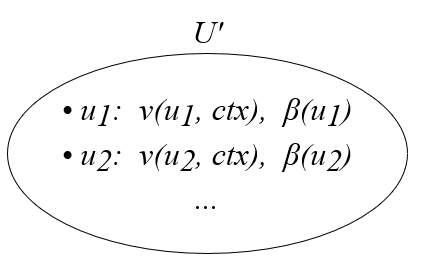
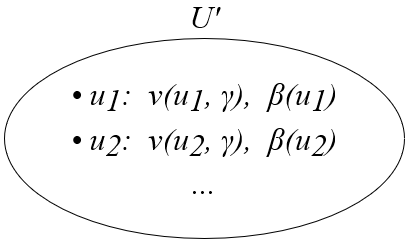
WIP Payment Execution Environment Models

diff --git a/packages/spec-haskell/yellowpaper/Paper.tex b/packages/spec-haskell/yellowpaper/Paper.tex
@@ -174,30 +174,34 @@ This discrete nature of this money distribution model is schematically depicted 
     \label{fig:discrete-md}
 \end{figure}
 
-\subsubsection{Using Shared Context}
+\subsubsection{Using Context}
 
 But the discrete nature of the model does not provide the necessary element for us to add the desired properties to the
-payment system. Here we propose a modification that involves the usage of \textit{shared context (ctx for short)}:
+payment system. Here we propose a modification that involves the usage of \textit{context ($\gamma$)}:
 
 \begin{figure}[h]
     \centering
     \includegraphics[width=0.5\textwidth]{../assets/money-distribution-with-ctx.png}
-    \caption{Schematic representation of money distribution with shared context}
+    \caption{Schematic representation of money distribution with context}
     \label{fig:md-with-ctx}
 \end{figure}
 
-Note that in this model, shared context can be updated independently while value functions of the same money
-distribution can produce different monetary values.
+Note that in this model, context can be updated independently while value functions of the same money distribution can
+produce different monetary values.
 
 \paragraph{}
 
 Here are some examples how that could work:
 
 \begin{itemize}
-\item If time is included the shared context, then monetary value of each monetary unit can be continuous over time.
-\item A subset of monetary units can also have their value functions depending on the same information in shared
-    context. This could enable payment primitives that involve many parties.
+\item If time (t) is included the context, then monetary value of each monetary unit can be continuous over time. Time
+    is part of the physical reality, hence not changeable by the actors in the payment system.
+\item Any subset of monetary units can also have their value functions depending on the same information in
+    context. This could enable payment primitives that involve many parties. This set of information in context is
+    referred to as \textit{ctx :: SharedContext}, they can be changed over time by the actors in the payment system.
 \end{itemize}
+
+For the purpose of this paper, the model of context is: $\gamma = (t :: Timestamp) \oplus (ctx :: SharedContext)$.
 
 \subsubsection{Haskell Definition Of Money Distribution}
 
@@ -207,56 +211,36 @@ Here are some examples how that could work:
 \subsection{Payment Primitives}
 %%%%%%%%%%%%%%%%%%%%%%%%%%%%%%%
 
-Payment primitives are functions that takes a money distribution, shared context and some payment instruction as inputs
-and an updated money distribution and shared context as outputs:
+Payment primitives are functions that takes a money distribution, shared context, some payment instruction (args) and
+timestamp as inputs and incremental updates\footnote{Specifically being monoidal, that is in short a set that has
+associative binary operation and an identity element. See \url{https://ncatlab.org/nlab/show/monoid}.} of money
+distribution and shared context as outputs:
 
 \begin{minted}[escapeinside=||,mathescape=true]{haskell}
-    somePaymentPrimitive :: MoneyDistribution |$\otimes$| SharedContext
-                         -> PaymentInstruction
-                         -> MoneyDistribution |$\otimes$| SharedContext
+    somePaymentPrimitive :: ( Timestamp t
+                            , MoneyDistribution md
+                            , SharedContext ctx
+                            , PaymentInstruction args
+                            , Monoid md, Monoid ctx
+                            )
+                         => md |$\otimes$| ctx -> args -> t -> md |$\otimes$| ctx
 \end{minted}
 
 Loosely speaking, it is considered a primitive, if it can not be broken down into other existing primitives which result
 in the same money distribution; additionally primitives should be the only constructs in a payment system that can
 update money distribution.
 
-The best known primitive is instant transfer of monetary value between one monetary unit to another. Shared context
-enables more primitives to be defined, which will be introduced in later chapters.
+Updates are \textit{monoidal}, so that they can be incremental and their parallel executions can be modeled.
+
+The best known primitive is instant transfer of monetary value between one monetary unit to another. The introduction of
+context enables more primitives to be defined, and this will be discussed in later chapters.
 
 
 \subsection{Payment Execution Environment Models}
 %%%%%%%%%%%%%%%%%%%%%%%%%%%%%%%%%%
 
-The purpose of a payment execution environment is to perform the actual payment primitives taking into account their
-conditions, timing and order.
-
-\subsubsection{Composing Financial Contracts}
-
-Inspired by the \textit{technique of composing financial contracts} demonstrated in \cite{peyton2000composing}, we first
-define a type class for financial contract:
-
 \input{FinancialContract.lhs.tex}
 
-And let $fcSet$ be the set of all financial contracts in the payment system.
-
-\subsubsection{Sequential Model of Execution Environment}
-
-A sequential execution environment model that can support conditional payment primitives\footnote{Timing is a type of
-condition of which current system time is a factor} then can be defined as follows:
-
-\begin{equation}
-    \begin{split}
-        [\![& \text{FS md fcSet t}]\!] = \sum_{x \in fcSet} ( \\
-        & \text{if fcPred md x t} \\
-        & \text{then fcExec x t} \\
-        & \text{else }\emptyset \\
-        )
-    \end{split}
-\end{equation}
-
-\subsubsection{Deterministic Execution Order}
-
-\subsubsection{Concurrency}
 
 \subsection{Money Medium Models}
 %%%%%%%%%%%%%%%%%%%%%%%%%%%%%%%%
